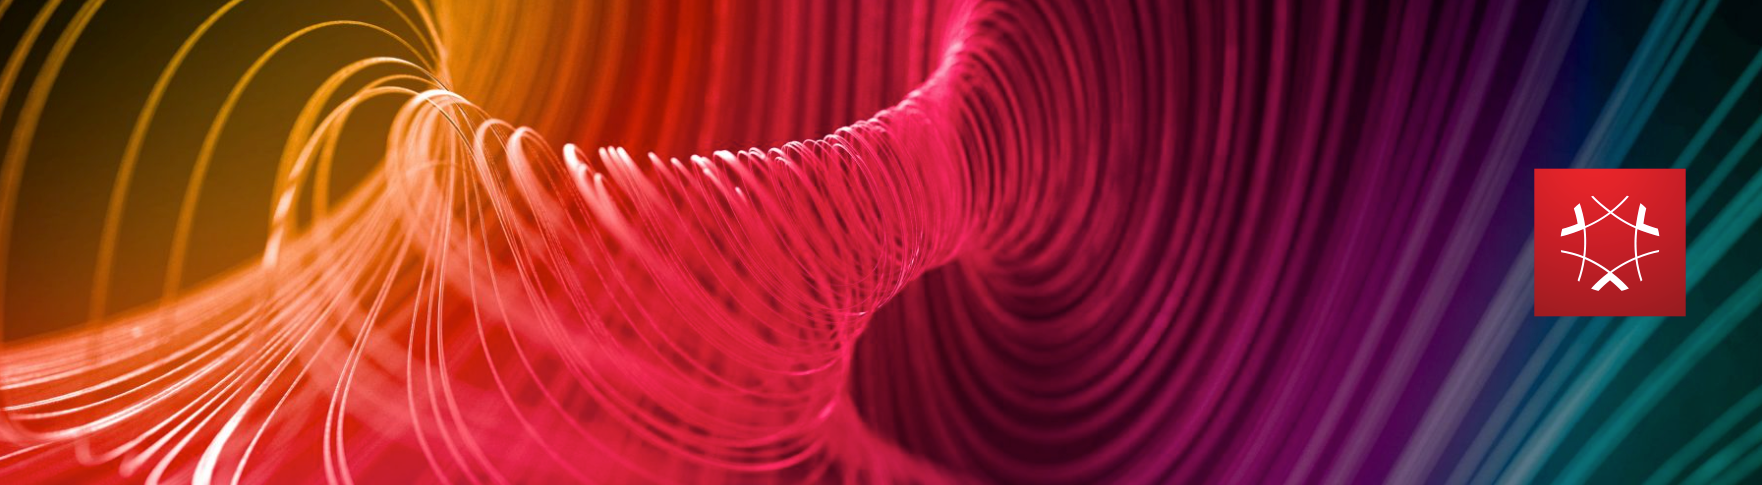
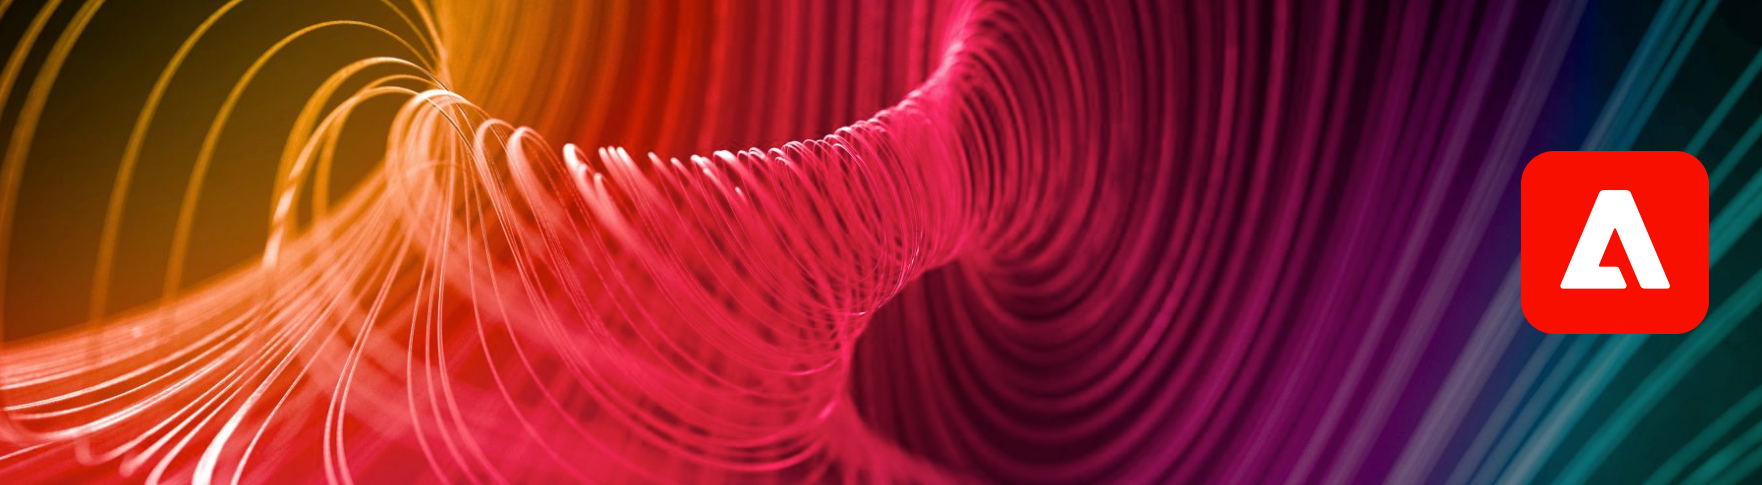
image updates - branding

Changed region(s): [[0.8428, 0.3093, 0.9677, 0.7113]]

diff --git a/current-temp.md b/current-temp.md
@@ -1,0 +1,359 @@
+---
+
+title: Adobe Experience Cloud Release Notes
+description: Template for Experience Cloud release notes
+doc-type: release notes
+last-update: March 2020
+author: mfrei
+
+---
+
+# Adobe Experience Cloud Release Notes - March 2020
+
+![Banner](/assets/experience-cloud-banner-3.png)
+
+New features and fixes in the [!DNL Adobe Experience Cloud].
+
+>[!IMPORTANT]
+>This page contains pre-release content and is subject to change prior to the planned release.
+
+>[!NOTE] 
+>Subscribe to the [[!DNL Adobe Priority Product Update]](https://www.adobe.com/subscription/priority-product-update.html) to be notified via email about upcoming releases. New information published after the release will be marked with the publication date.
+
+**Release date: March 2020**
+
+Latest update: March 11, 2020
+
+* [Adobe System Status](#status)
+* [Experience Cloud interface and core services](#ecloud)
+* [Experience Platform](#platform)
+* [!DNL Analytics](#analytics) - Release date: **March 12, 2020** (Updated March 27, 2020)
+* [Audience Manager](#aam)
+* [Experience Manager](#aem)
+* [!DNL Campaign](#ac)
+* [!DNL Target](https://docs.adobe.com/content/help/en/target/using/release-notes/target-release-notes.html) (links to solution help)
+* [!DNL Advertising Cloud](#adcloud)
+* [!DNL Magento](#magento)
+* [!DNL Marketo](#marketo)
+* [!DNL Primetime](https://helpx.adobe.com/primetime/user-guide.html) (links to solution help)
+* [New documentation and tutorials](#selfhelp)
+
+Looking for the help home? See [Adobe Experience Cloud Documentation](https://docs.adobe.com/content/help/en/experience-cloud/user-guides/home.html).
+
+(Specific product release dates my vary.)
+
+## ![Icon](/assets/adobe.png) Adobe System Status {#status}
+
+[!UICONTROL Adobe System Status] provides detailed information, status updates, and email notifications about Adobe cloud products and services outage, disruption, and maintenance events. Check it out at [status.adobe.com](https://status.adobe.com/).
+
+**What's new**
+
+* Using your Adobe ID, you can subscribe to event notifications with more granularity, down to the product offering and add-on level. Look for this new capability in Experience Cloud products, where the self-subscription process displays sub-offerings for the products and services to which you want to subscribe. This enhancement should significantly reduce the volume of notifications you receive, and make the notifications more relevant to the products and features you use.  Get started at [status.adobe.com/subscriptions](https://status.adobe.com/proactive-notifications/subscriptions/edit).
+
+**New features and enhancements available today**
+
+| Feature    | Description  |
+| -----------| ---------- |
+|Personalized self-subscription by product sub-offerings | <ul><li>Self-subscription by product offering or add-ons for Experience Cloud products.</li><li>Event notifications received are relevant to your product and product offerings preferences.</li></ul> |
+|Personalized experience based on user preferences| <ul><li>Timezone preference based on browser setting is used in email notifications.</li><li>Email confirmation sent on subscribe/unsubscribe with all selected preferences.</li></ul> |
+|Better delivery of event messages | <ul><li>Event history sorted based on chronological event updates.</li><li>Timestamp of event resolution added to Major/Minor closed issues.</li></ul> |
+
+## ![Icon](/assets/ec_appicon_24.png) Experience Cloud interface and core services {#ecloud}
+
+New features and fixes in the Experience Cloud interface, including administration and core services (customer attributes, audiences, triggers, cookies, and so on).
+
+| Feature    |Release date | Description  |
+| ----|----|---- |
+|Admin Tool - view user details |February 26, 2020 |Administrators can view a sortable and filterable list of all Experience Cloud users and their details in the new Admin Tool. User details include a user’s product access, roles, and last accessed information. See [Experience Cloud Admin Tool](https://docs.adobe.com/content/help/en/core-services/interface/manage-users-and-products/admin-tool-experience-cloud.html) help for details.|
+
+### Unified product domain
+
+Adobe is updating the domain and interface header to unify and improve your experience across all Experience Cloud applications. These enhancements are designed to simplify your experience in small but important ways. These enhancements will not change your current workflows.
+
+Updates include:
+
+* New solution URLs: `experience.adobe.com/<application name>`:
+  * All products will eventually adopt this URL pattern. Look for new URLs to become effective throughout the month.
+  * Browser support: Supported browsers include [!DNL Microsoft Edge], [!DNL Google Chrome], [!DNL Firefox], [!DNL Safari], and [!DNL Opera] (latest versions). **Note:** Although the Experience Cloud interface supports these browsers, individual solutions might not support every browser. (For example, [Analytics](https://docs.adobe.com/content/help/en/analytics/admin/sys-reqs.html) does not support [!DNL Opera], and [Target](https://docs.adobe.com/help/en/target/using/implement-target/before-implement/supported-browsers.html) does not support [!DNL Safari].)
+  * ([!DNL Safari] only) The domain change may cause cookie issues in [!DNL Safari]. Deselecting _Prevent cross-site tracking_ in the [!DNL Safari] Privacy Preferences enables cookies across domains (and all cross-site experiences), and allows Experience Cloud to function on this new domain.
+* Easier switching between your organizations or to a different application.
+* Improved product help: [!UICONTROL Experience League] is integrated into the product so that a help search also includes results from community forums and video content. This change simplifies access to more content and helps you get the most out of Experience Cloud. Additionally, click **[!UICONTROL Help]** > **[!UICONTROL Feedback]** to report issues or share your ideas with Adobe.  
+* Improved notifications: The [!UICONTROL Notifications] drop-down menu now has two tabs, one for your own product notifications and one for global product announcements.
+
+**Note:** The [!UICONTROL Feed] page was deprecated in January, 2020. Look for an in-product deprecation notice.
+
+For product documentation, see [Experience Cloud](https://docs.adobe.com/content/help/en/core-services/interface/experience-cloud.html) help.
+
+## ![Icon](/assets/experience_platform_appicon_24.png) Experience Platform {#platform}
+
+Release notes for the [!UICONTROL Experience Platform,] [!UICONTROL Experience Platform Launch,] [!UICONTROL Identity Service,] Journey Orchestration, Mobile Services, and security bulletins.  
+
+* [Experience Platform Release Notes](https://www.adobe.io/apis/experienceplatform/home/services/release-notes.html#!end-user/markdown/release-notes/release-notes.md)
+* [Experience Platform Launch](#launch)
+* [Journey Orchestration](#journey)
+* [Mobile Services and Mobile SDKs](#mobile)
+* [Security bulletins and advisories](https://helpx.adobe.com/security.html) (All Adobe products)
+
+### Experience Platform Launch {#launch}
+
+See [Experience Platform Launch](https://docs.adobe.com/content/help/en/launch/using/intro/release-notes/current.html) for release notes and product documentation.
+
+### Journey Orchestration {#journey}
+
+Using Adobe Experience Platform, orchestrate individual customer journeys at scale across experience channels by intelligently anticipating every individual’s needs in real time, wherever their journey takes them.
+
+Q1 release has been published. [Read more](https://docs.adobe.com/content/help/en/journeys/using/release-notes/release-notes.html#q1-release---march-2020)
+
+#### Additional resources for Journey Orchestration
+
+[Documentation](https://docs.adobe.com/content/help/en/journeys/using/journey-orchestration-home.html) - [Release Notes](https://docs.adobe.com/content/help/en/journeys/using/release-notes/release-notes.html) - [How-to videos](https://docs.adobe.com/content/help/en/platform-learn/tutorials/journey-orchestration/introduction.html)
+
+### Mobile Services and Mobile SDKs {#mobile}
+
+**iOS v4.19.1**
+
+* General – Resolved a potential crash when [!UICONTROL Swift] enums are included in context data for track calls.
+* [!DNL Target] – [!DNL Target] Session ID will now be added as a context data parameter `a.target.sessionId` in the internal [!UICONTROL Analytics-for-Target] hit sent to Adobe Analytics.
+
+**Android v4.18.1**
+
+* [!DNL Target] – [!DNL Target] Session ID will now be added as a context data parameter “a.target.sessionId” in the internal [!UICONTROL Analytics-for-Target] hit sent to Adobe Analytics.
+
+## ![Icon](/assets/analytics_cloud_appicon_24.png) [!DNL Analytics] {#analytics}
+
+Release date: **March 12, 2020**
+
+New features and fixes in Adobe Analytics:
+
+* [New features, enhancements, and fixes in Adobe Analytics](#aa-features)
+* [Important notices for Analytics administrators](#aa-notices) (Updated March 27, 2020)
+* [AppMeasurement](#appm)
+
+For product documentation, see [Adobe Analytics Help Home](https://docs.adobe.com/content/help/en/analytics/landing/home.html).
+
+### New features, enhancements, and fixes in Adobe Analytics {#aa-features}
+
+* **Multiple report suites in [!UICONTROL Analysis Workspace]**: You can now bring in data from multiple report suites into a single [!UICONTROL Analysis Workspace] project to view in side-by-side panels. [Learn more...](https://docs.adobe.com/content/help/en/analytics/analyze/analysis-workspace/build-workspace-project/multiple-report-suites.html)
+* **Experience Cloud Audience Optimization**: This feature enables you to publish segments to the Experience Cloud within 8 hours (instead of the previous 48-hour processing time). [Learn more...](https://docs.adobe.com/content/help/en/analytics/components/segmentation/segmentation-workflow/seg-publish.html)
+* **Analysis Workspace - Training Tutorial template**: This new standard template walks you through common terminology and steps for building your first analysis in Workspace. It is available as a standard template in the [!UICONTROL New Project] modal and replaces the sample project that exists today for new users that do not have other projects in their list.
+
+#### Fixes
+
+* Fixed an issue in [!UICONTROL Reports & Analytics] that prevented downloading `.xls` reports. This issue affected customers using currencies other than US Dollar and Euro. (AN-206541, AN-204008)
+* The rollout of a new shell fixed several customer issues related to switching Experience Cloud organizations.(AN-200844, AN-186920)
+* Fixed an issue where doing a breakdown on the _Unspecified_ line item (or some other reporting line items) while not including _Unspecified (None)_ in the search filters of the breakdown would return no results in the breakdown.
+* Fixed an issue occurring when using a classified dimension, the entry or exit metric totals would not match the line item total on a breakdown.
+* Fixed an issue where first touch and last touch models in Attribution IQ were not calculating credit correctly for some line items in some out of the box dimensions.
+* Fixed an issue where breaking down one date dimension by another date dimension would return incorrect results.
+* Fixed an issue where sometimes entry or exit metrics would be counted incorrectly when applied to “Unspecified” in a classified dimension report.
+
+### Important notices for [!DNL Analytics] administrators {#aa-notices}
+
+| Notice | Date Added or Updated  | Description |
+| -----------| ---------- | ---------- |
+|EOL of **[!UICONTROL Conversion Level]** setting|March 3, 2020|The non-functioning [Conversion Level](https://docs.adobe.com/content/help/en/analytics/admin/admin-tools/general-acct-settings-admin.html) setting in **[!UICONTROL Admin Tools] > [!UICONTROL Report Suites] > [!UICONTROL General Account Settings]** will be removed from the UI on March 12, 2020.|
+|EOL of **[!UICONTROL Dashboard Archive]**|March 27, 2020|The **[!UICONTROL View Archive]** setting under **[!UICONTROL Manage Dashboards]** in [!UICONTROL Reports & Analytics] will no longer be available as of October, 2020.|
+|End of Support for TLS 1.1 | October 3, 2019 | By March 31, 2020, Adobe Analytics will remove support for TLS 1.1. This change is part of our ongoing efforts to maintain the highest security standards and promote the safety of customer data.|
+|New Adobe Analytics domain|Dec. 18, 2019|On January 16, 2020, Adobe Analytics began moving to a new domain - `https://experience.adobe.com/analytics.`<br>**Note:** This change applies to all users accessing Analytics with their Adobe ID or Enterprise ID. <ul><li>The domain change may cause cookie issues when loading Analytics in Safari. Deselecting _Prevent cross-site tracking_ in the [!DNL Safari] Privacy Preferences enables cookies across domains (and all cross-site experiences), and allows Analytics to function on this new Adobe Experience Cloud domain. You can use other browsers without issue because this affects only [!DNL Safari] users.</li><li>The domain change may cause [!UICONTROL Activity Map] to stop working for some customers [in specific cases](https://docs.adobe.com/content/help/en/analytics/analyze/activity-map/activity-map.html).</li></ul>|
+|End of Life - Analytics Legacy APIs|January 9, 2020|In November 2020, the following Analytics Legacy API services will reach their end-of-life and will be shutdown. Current integrations built using these services will stop working. <ul><li>1.3 Analytics APIs</li><li>1.4 SOAP Analytics APIs</li><li>Legacy OAuth Authentication (OAuth and JWT)</li></ul>We have provided a [Legacy API EOL FAQ](https://github.com/AdobeDocs/analytics-1.4-apis/blob/master/docs/APIEOL.md?mv=email) to help answer your questions and provide guidance on how to proceed. API integrations that employ these services can migrate to the [1.4 Analytics REST APIs](https://github.com/AdobeDocs/analytics-1.4-apis?mv=email) or the [2.0 Analytics APIs](https://github.com/AdobeDocs/analytics-2.0-apis?mv=email). Legacy OAuth accounts can migrate to an [Adobe IO](https://console.adobe.io/home?mv=email) Analytics integration account, which can be used to access both the 1.4 Analytics APIs and 2.0 Analytics APIs.|
+|San Jose FTP Broker Ending for London and Singapore|July 2020|For customers in London and Singapore, we will no longer support brokering of data between London or Singapore and the San Jose data center [ftp.omniture.com](ftp://ftp.omniture.com/).<br/><ul><li>For London, use [ftp3.omniture.com](ftp://ftp3.omniture.com/)</li><li>For Singapore, use [ftp4.omniture.com](ftp://ftp4.omniture.com/)</li></ul>|
+|EOL of Ad Hoc Analysis|Aug 6, 2018|Adobe announced the intention to end-of-life Ad Hoc Analysis. An end-of-life date will be shared once available. For more information, visit [Discover Workspace](https://spark.adobe.com/page/S9Bhp66VJ2fEn/).|
+
+### [!DNL AppMeasurement] {#appm}
+
+See [AppMeasurement for Javascript release notes](https://docs.adobe.com/content/help/en/analytics/implementation/appmeasurement-updates.html). Version 2.20.0 was released on March 5, 2020.
+
+## ![Icon](/assets/audience-manager.png) Audience Manager {#aam}
+
+New features and updates to Audience Manager:
+
+| Feature    | Description  |
+| -----------| ---------- |
+|[Bulk Management Tools worksheet](https://docs.adobe.com/help/en/audience-manager/user-guide/reference/bulk-management-tools/bulk-management-intro.html) | A new version of the worksheet is available for you, which fixes an issue some customers were facing when creating algorithmic models in the Windows 64-bit Operating system. Download the latest version [here](https://docs.adobe.com/help/en/audience-manager/user-guide/reference/bulk-management-tools/assets/BAAAM_V2_20200311.xlsm).|
+
+### Fixes and improvements {#aam-fixes-and-improvements}
+
+* Fixed a bug where customers could not update segment name because of a missing RBAC permission [!UICONTROL VIEW_ALL_DESTINATIONS]. The [!UICONTROL VIEW_ALL_DESTINATIONS] permission should not be required to update a segment. For more information about RBAC permissions, see [Administration (RBAC Controls)](https://docs.adobe.com/help/en/audience-manager/user-guide/features/administration/administration-overview.html#wild-card-permissions). (AAM-52760)
+* Fixed a bug in [Data Explorer](https://docs.adobe.com/help/en/audience-manager/user-guide/features/data-explorer/data-explorer-overview.html) where some customers could not see content in the basic information section and operators in the expression builder, when creating traits based off of [!UICONTROL Data Explorer] signals. (AAM-53130)
+* Fixed a bug where some customers could not load the [!UICONTROL Audience Marketplace] interface. (AAM-52070)
+* Fixed a bug in the [!UICONTROL Segments API] where, because of some segments with no description, the interface would freeze when users tried to access those segments and users had to navigate away from that page. (AAM-53071)
+* Multiple accessibility improvements throughout the interface. (AAM-48952, AAM-48969, AAM-48979, AAM-48993, AAM-49048, AAM-49057, AAM-49058,AAM-49392)
+
+## ![Icon](/assets/aem.png) Experience Manager {#aem}
+
+New features, fixes, and updates in Adobe Experience Manager (AEM). Adobe recommends customers with on-premise deployments to deploy the latest patches to ensure higher stability, security, and performance.
+
+### Product Updates
+
+* **AEM 6.5.4.0**
+    AEM 6.5, Service Pack 4.0 (6.5.4.0 released March 5, 2020) is an important update that includes new features, key customer enhancements, improved performance, stability, and security, released since the general availability of AEM 6.5, April 2019.
+  * [What's new in Adobe Experience Manager 6.5, Service Pack 4](https://docs.adobe.com/content/help/en/experience-manager-65/release-notes/service-pack/new-features-latest-service-pack.html)
+  * [Release notes](https://helpx.adobe.com/experience-manager/6-5/release-notes/sp-release-notes.html)
+  * [AEM Forms release deliverables](https://helpx.adobe.com/aem-forms/kb/aem-forms-releases.html)
+
+* **AEM 6.4.8.0**
+
+  AEM 6.4, Service Pack 8.0 (6.4.8.0 released March 5, 2020) is an important update that includes key customer fixes released since the general availability of AEM 6.4, April 2018.
+  * [Release notes](https://helpx.adobe.com/experience-manager/6-4/release-notes/sp-release-notes.html)
+  * [AEM Forms CFP releases](https://helpx.adobe.com/aem-forms/kb/aem-forms-releases.html)
+
+* **AEM 6.3.3.8**
+
+  AEM 6.3, Service Pack 3, Cumulative Fix Pack 8 (6.3.3.8 released March 5, 2019) is an important update that includes key customer fixes released since the general availability of AEM 6.3, April 2017.
+  * [Release notes](https://helpx.adobe.com/experience-manager/release-notes--aem-6-3-cumulative-fix-pack.html)
+  * [AEM Forms CFP releases](https://helpx.adobe.com/aem-forms/kb/aem-forms-releases.html)
+
+* **AEM Assets Brand Portal**
+
+  AEM Assets Brand Portal 6.4, Service Pack 6 (6.4.6 released March 5, 2020) changes the way AEM Assets is configured with [!UICONTROL Brand Portal.] In addition, the release includes other enhancements and bug fixes.
+  * [Release notes](https://docs.adobe.com/content/help/en/experience-manager-brand-portal/using/introduction/brand-portal-release-notes.html)
+
+### Self-Help
+
+* **AEM as a Cloud Service &ndash; Role Based Permissions**
+
+  Cloud Manager has pre-configured roles with appropriate permissions. Each of the roles have specific permissions, pre-configured tasks, or permissions, associated with each role. The [Role Based Permissions](https://docs.adobe.com/content/help/en/experience-manager-cloud-service/onboarding/what-is-required/role-based-permissions.html) Help topic identifies available functions and the roles who can run them.
+
+* **AEM as a Cloud Service &ndash; Dispatcher**
+
+  The [Dispatcher and CDN](https://docs.adobe.com/content/help/en/experience-manager-cloud-service/implementing/dispatcher/overview.html#dispatcher-cdn) and [Explicit Dispatcher cache invalidation](https://docs.adobe.com/content/help/en/experience-manager-cloud-service/implementing/dispatcher/overview.html#explicit-invalidation) sections were updated to clarify the options that are available and how they work.
+
+* **Configure AEM Assets with Brand Portal**
+
+  AEM Assets is now configured with [!UICONTROL Brand Portal] through Adobe I/O, which procures an IMS token for authorization of the Brand Portal tenant. Earlier, it was configured in Classic interface by way of the [!UICONTROL Legacy OAuth Gateway.]
+  See [Configure AEM Assets with Brand Portal](https://docs.adobe.com/content/help/en/experience-manager-brand-portal/using/publish/configure-aem-assets-with-brand-portal.html).
+
+* **AEM as a Cloud Service - Smart Crop in Dynamic Media**
+
+  A new option is available in AEM as a Cloud Service when you work with Smart Crop in the Dynamic Media component:
+
+  **Enable Aspect Ratio match** - Select this option to let Dynamic Media pick a smart crop rendition that best matches the aspect ratio of the original image.
+  See [When working with Smart Crop](https://docs.adobe.com/content/help/en/experience-manager-cloud-service/assets/dynamicmedia/adding-dynamic-media-assets-to-pages.html#when-working-with-smart-crop).
+
+### Community
+
+* **AEM Skill Builder webinars**
+
+  * AEM Sites &ndash; Starting March 17, 2020 learn the building blocks of content authoring and the fundamental concepts and operations of AEM Sites. [Register now](https://aemskillbuilder-sites.experienceleague.adobeevents.com/register).
+  * AEM Assets &ndash; Starting March 19, 2020 hone your digital asset management expertise, plus learn the basics of brand portal, [!UICONTROL Dynamic Media,] [!UICONTROL Asset Link,] and more. [Register now](https://aemskillbuilder-assets.experienceleague.adobeevents.com/register).
+
+### Additional resources
+
+* [AEM as a Cloud Service](https://docs.adobe.com/content/help/en/experience-manager-cloud-service/landing/home.html)
+* [AEM 6.5 Learn & Support Home](https://helpx.adobe.com/support/experience-manager/6-5.html)
+* [AEM 6.4 Learn & Support Home](https://helpx.adobe.com/support/experience-manager/6-4.html)
+* [AEM 6.3 Learn & Support Home](https://helpx.adobe.com/support/experience-manager/6-3.html)
+* [AEM 6.2 Learn & Support Home](https://helpx.adobe.com/support/experience-manager/6-2.html)
+* [Cloud Manager User Guide](https://helpx.adobe.com/experience-manager/cloud-manager/user-guide.html)
+* [Older Versions of AEM Documentation](https://helpx.adobe.com/experience-manager/aem-previous-versions.html)
+* [Dynamic Media Classic Help Home](https://docs.adobe.com/content/help/en/dynamic-media-classic/using/home.html)
+* [Dynamic Media release notes](https://marketing.adobe.com/resources/help/en_US/s7/release_notes/index.html)
+* [Livefyre release notes](https://marketing.adobe.com/resources/help/en_US/livefyre/c_rn.html)
+
+## ![Icon](/assets/campaign.png) [!DNL Campaign] {#ac}
+
+Adobe Campaign provides an intuitive, automated way to deliver one-to-one messages across online and offline marketing channels. You can now anticipate what your clients want using experiences determined by their habits and preferences.
+
+### Campaign Classic
+
+* [Campaign Classic 19.1.4 update](https://docs.adobe.com/content/help/en/campaign-classic/using/release-notes/previous-releases/release--19-1.html#release-19-1-4-build-9032)
+
+### Additional resources
+
+* Adobe Campaign Standard: [Documentation](https://helpx.adobe.com/support/campaign/standard.html) - [Release Notes](https://docs.adobe.com/content/help/en/campaign-standard/using/release-notes/release-notes.html) - [How-to videos](https://docs.adobe.com/content/help/en/campaign-learn/campaign-standard-tutorials/overview.html) - [Release Planning](https://helpx.adobe.com/campaign/kb/acs-release-planning.html)
+* Adobe Campaign Classic: [Documentation](https://helpx.adobe.com/support/campaign/classic.html) - [Release Notes](https://docs.campaign.adobe.com/doc/AC/en/RN.html) - [How-to videos](https://docs.adobe.com/content/help/en/campaign-learn/campaign-classic-tutorials/overview.html)
+* Adobe Campaign Control Panel: [Documentation](https://docs.adobe.com/content/help/en/control-panel/using/control-panel-home.html) - [Release Notes](https://docs.adobe.com/content/help/en/control-panel/using/release-notes.html)
+
+## ![Icon](/assets/advertising_cloud_appicon_24.png) Advertising Cloud {#adcloud}
+
+Updated March 20, 2020, for March 21 release:
+
+| View | Feature |
+|------|---------|
+| [!UICONTROL Portfolios] | For guidelines on how to manage your portfolios to account for traffic changes resulting from COVID-19, contact your account manager. |
+|Google Ads and Microsoft Ads campaigns  | In optimized portfolios with the "Auto-optimize Bid Adjustment Values" option, Advertising Cloud no longer automatically optimizes the bid adjustment settings for campaigns using the enhanced cost per click (eCPC) bid strategy. The search engine optimizes all bid adjustments at the time of auction. Advertising Cloud still optimizes the base bids and &mdash; when the "Auto adjust campaign budget limits" option is enabled &mdash; the campaign budget. |
+| [!UICONTROL Alerts Beta] | (Beta feature) You can now create alert templates to identify when any portfolio meets specific conditions &mdash; such as performance metrics &mdash; during a specified period and then generate an alert. You can create portfolio-level alerts from **[!UICONTROL Insights & Reports]** > **[!UICONTROL Alerts (Beta)]** but not from **[!UICONTROL Optimization]** > **[!UICONTROL Portfolios)]**. **Note:** Any alerts created from the legacy version of Alerts Beta, which was replaced in January, are no longer available.|
+| [!UICONTROL Admin] > [!UICONTROL Transaction Properties] | A new "Property ID" column shows the unique property ID for each transaction property. You can search on any string contained in the column values. |
+
+## ![Icon](/assets/magento.png) [!DNL Magento] {#magento}
+
+For Magento release notes, see:
+
+* [Magento Commerce 2.3.4](https://devdocs.magento.com/guides/v2.3/release-notes/release-notes-2-3-4-commerce.html)
+* [Magento Open Source 2.3.4](https://devdocs.magento.com/guides/v2.3/release-notes/release-notes-2-3-4-open-source.html)
+
+## ![Icon](/assets/marketo.png) [!DNL Marketo] {#marketo}
+
+[!DNL Marketo Engage] is a complete solution for lead management and B2B marketers looking to transform customer experiences by engaging across every stage of complex buying journeys.
+
+### Core Marketo Engage updates
+
+Release date: February 21, 2020
+
+* **Microsoft Dynamics _Change Owner in Microsoft_ Flow Action:** Change a lead or contact owner directly from Marketo Engage.
+* **Enhancements to API calls:**
+  * User management APIs
+  * Custom object schema APIs
+  * Landing page redirect rules APIs
+* **Form Descriptor Caching:** Improvements to Landing Pages & Forms.
+
+See [!DNL Marketo] release notes for [February 2020](https://docs.marketo.com/display/public/DOCS/Release+Notes%3A+Feb+%2720) for more information.
+
+### Upcoming features
+
+The following features are releasing throughout the quarter:
+
+| Feature | Description |
+|------|---------|
+| [!DNL Bizible] |<ul><li>New account-based segmentation</li><li>Save dashboard-specific filters</li><li>Export Bizible dashboards as PDFs</li></ul> |
+| Sales Connect |Compose Window and Command Center updates/enhancements |
+
+### Announcements
+
+**Marketo Engage Success Center:** Launching in February 2020. The Success Center is an in-product help center that enables you to search Product Docs and the Community, launch how-to guides, access adoption content, and more. Note: This feature will be launched as a beta in ANZ and will roll out to North America later in the quarter.
+
+### Deprecations
+
+* **Asset API "_method" Parameter:** After September 2020, Asset API Endpoints will no longer accept "_method" to pass Query Parameters in a POST body to bypass URI length limitations.
+* **Internet Explorer Support Deprecation:** Beginning with the July release on July 31, 2020, the Marketo Engage user interface will no longer be supported on Internet Explorer.
+
+For cumulative and historical release notes, see [Marketo release notes](https://docs.marketo.com/x/CgA6Ag).
+
+## ![Icon](/assets/experience-cloud.png) New documentation and tutorials {#selfhelp}
+
+New and recent self-help articles and videos. <!--`https://jira.corp.adobe.com/secure/Dashboard.jspa?selectPageId=60327`-->
+
+|Solution |Content | Description |
+|----------| -----------| ---------- |  
+|[!UICONTROL AEM Commerce] |Video - [Creating Multiple Category and Product Pages](https://www.adobe.io/apis/experiencecloud/commerce-integration-framework/tutorials.html#!AdobeDocs/commerce-cif-documentation/master/tutorials/04-style-cif-component.md)  |Learn how to create a minimal Adobe Experience Manager (AEM) CIF project as a starting point for customer projects using CIF Core Components. Apply theme and CSS styling to components and inspect a new AEM CIF project, generated by the archetype. Also, learn how CSS and JavaScript used by CIF core components are organized. |  
+| [!UICONTROL AEM Forms]  |Article - [Authenticate to AEM Author using OKTA](https://docs.adobe.com/content/help/en/experience-manager-learn/forms/single-sign-on-with-okta.html) | Learn how to configure your app on OKTA portal and about the settings that you typically use in registering new application. |
+| [!UICONTROL AEM Commerce]  |Tutorial - [Customize CIF Core Components](https://www.adobe.io/apis/experiencecloud/commerce-integration-framework/tutorials.html#!AdobeDocs/commerce-cif-documentation/master/tutorials/05-customize-cif-components.md)  | Review several different extension points provided by CIF Core Components and AEM in general. CIF Core Components provides a standard set of Commerce components that can be used to accelerate a project that integrates Adobe Experience Manager (AEM) and Magento solutions.|
+|[!DNL Adobe Campaign] - Audience Destinations|Video - [Create an audience...](https://docs.adobe.com/content/help/en/campaign-learn/campaign-standard-tutorials/profiles-and-audiences/audience-destinations/creating-audiences-using-segment-builder.html) | Create an audience in Campaign Standard using the Adobe [!UICONTROL Experience Platform Segment Builder]. You can access this feature directly within Adobe Campaign Standard via the [!UICONTROL Audiences] modules. |
+|[!DNL Adobe Campaign] - Audience Destinations |Video - [Activating Adobe Experience Platform Audiences in a Marketing Workflow](https://docs.adobe.com/content/help/en/campaign-learn/campaign-standard-tutorials/profiles-and-audiences/audience-destinations/activating-aep-audiences.html) | Learn how to activate the [!UICONTROL Data Services Query Audience] within a workflow by using the [!UICONTROL Read Audience] activity.|
+|[!DNL Adobe Campaign] |Tutorial - [Push Notification with Android](https://docs.adobe.com/content/help/en/campaign-learn/campaign-standard-tutorials/communication-channels/mobile/push/getting-started-push-notifications/getting-started-with-push-notifications-android.html) |Send personalized and segmented push notifications to iOS and Android mobile devices. This tutorial will walk you through the steps involved in sending push notifications from Adobe Campaign and receiving these notifications in your Android app.|
+|[!DNL Adobe Campaign] |Video - [Create a Push Notification](https://docs.adobe.com/content/help/en/campaign-learn/campaign-standard-tutorials/communication-channels/mobile/push/creating-a-push-notification.html) | Create a push notification in Adobe Campaign Standard. You can send personalized and segmented push notifications to iOS and Android mobile devices. |
+|[!DNL Adobe Campaign] - AEP Data Connector |Video - [Check the status of a data ingestion job](https://docs.adobe.com/content/help/en/campaign-learn/campaign-standard-tutorials/administrating/adobe-experience-platform-data-connector/checking-status-of-data-ingestion-jobs.html) |Learn how to check the status of a data ingestion job and if the data has been ingested from Adobe Campaign Standard into Adobe Experience Platform. |
+|[!DNL Adobe Campaign] - AEP Data Connector |Video - [Modify data mapping](https://docs.adobe.com/content/help/en/campaign-learn/campaign-standard-tutorials/administrating/adobe-experience-platform-data-connector/modifying-data-mapping.html) |Learn how to check the status and modify the data mapping. |
+|[!DNL Adobe Campaign] - AEP Data Connector |Video - [Map experience events](https://docs.adobe.com/content/help/en/campaign-learn/campaign-standard-tutorials/administrating/adobe-experience-platform-data-connector/mapping-experience-events.html) | Learn how to map Experience Events in Adobe Experience Platform. |
+|[!DNL Adobe Campaign] - AEP Data Connector |Video - [Map custom resources](https://docs.adobe.com/content/help/en/campaign-learn/campaign-standard-tutorials/administrating/adobe-experience-platform-data-connector/mapping-custom-resources.html) |Learn how to map different data types between Adobe Campaign Standard and Adobe Experience Platform. |
+|[!DNL Adobe Campaign] - AEP Data Connector |Video - [Understand the Adobe Experience Platform Data Connector](https://docs.adobe.com/content/help/en/campaign-learn/campaign-standard-tutorials/administrating/adobe-experience-platform-data-connector/understanding-the-adobe-experience-platform-data-connector.html) |Learn how to make your data available on Adobe Experience Platform by mapping XTK data (data ingested in Campaign) to Experience Data Model (XDM) data on Adobe Experience Platform. |
+|[!DNL Adobe Campaign] - AEP Data Connector|Video - [Map seed table data](https://docs.adobe.com/content/help/en/campaign-learn/campaign-standard-tutorials/administrating/adobe-experience-platform-data-connector/mapping-seed-table-data.html)  |Learn how to map you seed data / test profiles with the Adobe Experience Platform.|
+|[!DNL Adobe Campaign]- Audience Destinations |Video - [Change the targeting dimension of a delivery for a Platform Audience](https://docs.adobe.com/content/help/en/campaign-learn/campaign-standard-tutorials/profiles-and-audiences/audience-destinations/changing-targeting-dimension.html)  |Learn how to change the targeting dimension of a delivery for a Platform Audience outside of the primary profile table in Adobe Campaign Standard.|
+|[!DNL Adobe Campaign] |Video - [Big data management on Snowflake](https://docs.adobe.com/content/help/en/campaign-learn/campaign-classic-tutorials/administrating/fda/big-data-segmentation-on-snowflake.html) |Leverage the Snowflake connector in Adobe Campaign Classic.|
+|[!DNL Adobe Campaign] - Audience Destinations |Article - [Audience Destinations (BETA)- Overview](https://docs.adobe.com/content/help/en/campaign-learn/campaign-standard-tutorials/profiles-and-audiences/audience-destinations/audience-destinations-overview.html) |Learn how to leverage centralized and consolidated profile data from the Adobe Experience Platform for marketing campaigns in Adobe Campaign Standard. |
+|[!DNL Adobe Target] - Mobile SDK |Tutorial - [Personalize app experiences with Adobe Target](https://docs.adobe.com/content/help/en/target-learn/mobile-sdk-v4-android/overview.html) |Implement Adobe Target in your own Android app. Validate the Mobile Services SDK setup and implement [!DNL Target] requests like pre-fetching content, blocking requests, and more. |
+|Adobe Analytics |Video - [Adobe Summit 2019 Super Session](https://docs.adobe.com/content/help/en/analytics-learn/tutorials/intro-to-analytics/what-can-aa-do-for-me/adobe-summit-2019-super-session-high-tech.html) |Watch curated clips from the high tech "super session" at Summit 2019. |
+|Adobe Analytics |Video - [Introduction to Calculated Metrics in Customer Journey Analytics](https://docs.adobe.com/content/help/en/platform-learn/tutorials/cja/introduction-to-calculated-metrics-in-customer-journey-analytics.html) |Walk through the basics of creating [!UICONTROL Calculated Metrics] in [!UICONTROL Customer Journey Analytics]. |
+|Adobe Analytics |Video - [Adobe Summit 2019 Super Session](https://docs.adobe.com/content/help/en/analytics-learn/tutorials/intro-to-analytics/what-can-aa-do-for-me/adobe-summit-2019-super-session-travel.html)|View curated clips from the travel and hospitality session at Summit 2019. |
+|Adobe Analytics |Video - [Adobe Summit 2019 Super Session](https://docs.adobe.com/content/help/en/analytics-learn/tutorials/intro-to-analytics/what-can-aa-do-for-me/adobe-summit-2019-super-session-retail.html) |See curated clips from the retail session at Summit 2019. |
+|Adobe Analytics |Video - [Customer Use Case: Accent Group Invests in Customer Experience to Drive Sales](https://docs.adobe.com/content/help/en/analytics-learn/tutorials/intro-to-analytics/what-can-aa-do-for-me/accent-group-invests-in-customer-experience-to-drive-sales.html) |Watch how the Accent Group uses the Adobe Experience Cloud to create seamless digital experiences. |
+|Adobe Analytics |Video - [Customer Use Case: ServiceNow gets the right insights to connect with prospects](https://docs.adobe.com/content/help/en/analytics-learn/tutorials/intro-to-analytics/what-can-aa-do-for-me/servicenow-gets-the-right-insights-to-connect-with-prospects.html) |Find out how [!DNL ServiceNow] gets actionable data from its marketing channels and boosts ROI on paid search advertising with Adobe Advertising Cloud and Adobe Analytics. |
+|Adobe Analytics |Video - [Adobe Analytics - It's More Than Data It's Customer Intelligence](https://docs.adobe.com/content/help/en/analytics-learn/tutorials/intro-to-analytics/what-can-aa-do-for-me/adobe-analytics-customer-intelligence.html)|Learn about data-driven marketing and how to take your analytics maturity to from data to insights to action. |
+|Adobe Analytics |Video - [Adobe Sensei and Adobe Analytics - Extended Version](https://docs.adobe.com/content/help/en/analytics-learn/tutorials/intro-to-analytics/what-can-aa-do-for-me/adobe-sensei-and-adobe-analytics.html)|View key features in Adobe Analytics powered by Adobe [!DNL Sensei,] including [!UICONTROL Anomaly Detection,] [!UICONTROL Contribution Analysis,] [!UICONTROL Intelligent Alerts,] [!UICONTROL Clustering,] [!UICONTROL Segment IQ,] and [!UICONTROL Propensity Modeling.] |
+|Adobe Analytics |Video - [How Adobe Analysis Workspace Can Change Your Business](https://docs.adobe.com/content/help/en/analytics-learn/tutorials/intro-to-analytics/what-can-aa-do-for-me/how-adobe-analysis-workspace-can-change-your-business.html) | Learn how you can perform ad hoc analysis, flexible analysis, cohort analysis, and fallout analysis using [!UICONTROL Analysis Workspace]. You can also share the analysis working environment with everyone in your company, and its drag and drop function allows everyone to analyze the data easily and get insights quickly.|
+|Adobe Analytics |Video - [Customer Use Case: The Home Depot Innovates with Customer Experience Management](https://docs.adobe.com/content/help/en/analytics-learn/tutorials/intro-to-analytics/what-can-aa-do-for-me/the-home-depot-innovates-with-customer-experience-management.html) |Learn how [!DNL Home Depot] uses Adobe solutions to create brand loyalty and customer satisfaction with a personalized, customized shopping experience. |
+|Adobe Analytics |Presentation - [Understanding Customer Journey Analytics](https://docs.adobe.com/content/help/en/platform-learn/tutorials/cja/understanding-customer-journey-analytics.html)  |Learn how Adobe’s [!UICONTROL Customer Journey Analytics], an application service built on [!DNL Adobe Experience Platform], brings [!UICONTROL Analysis Workspace] into the Experience Platform. This feature enables multi-channel analysis on any of your [!DNL Adobe Experience Platform] data sets.|
+|Adobe Analytics |Video - [Cross-Channel Attribution in CJA](https://docs.adobe.com/content/help/en/platform-learn/tutorials/cja/cross-channel-attribution-in-customer-journey-analytics.html)  |Learn how you can use visualizations to show attribution (give credit) across channels in [!UICONTROL Customer Journey Analytics]. |
+|Adobe Analytics |Article - [Customer Tips for Continuing your Adobe Analytics Learning Journey](https://docs.adobe.com/content/help/en/analytics-learn/tutorials/analysis-workspace/tips-and-tricks/customer-tips-for-continuing-your-adobe-analytics-learning-journey.html) |Meet three Adobe customers who have tips and tricks for you regarding how to get the most value from Adobe Analytics. |
+|Adobe Analytics |Video - [Create Cross-Channel Visualizations in CJA](https://docs.adobe.com/content/help/en/platform-learn/tutorials/cja/creating-cross-channel-visualizations-in-customer-journey-analytics.html)|Discover how [!UICONTROL Customer Journey Analytics] allows you to create visualizations that include data from multiple data sets across multiple channels, including merging the data per visitor. |
+|Adobe Analytics |Video - [Move your Calculated Metrics from Adobe Analytics to Customer Journey Analytics](https://docs.adobe.com/content/help/en/platform-learn/tutorials/cja/moving-your-calculated-metrics-from-adobe-analytics-to-customer-journey-analytics.html) |Find tips for re-creating your Analytics [!UICONTROLCalculated Metrics] in [!UICONTROL Customer Journey Analytics]. |
